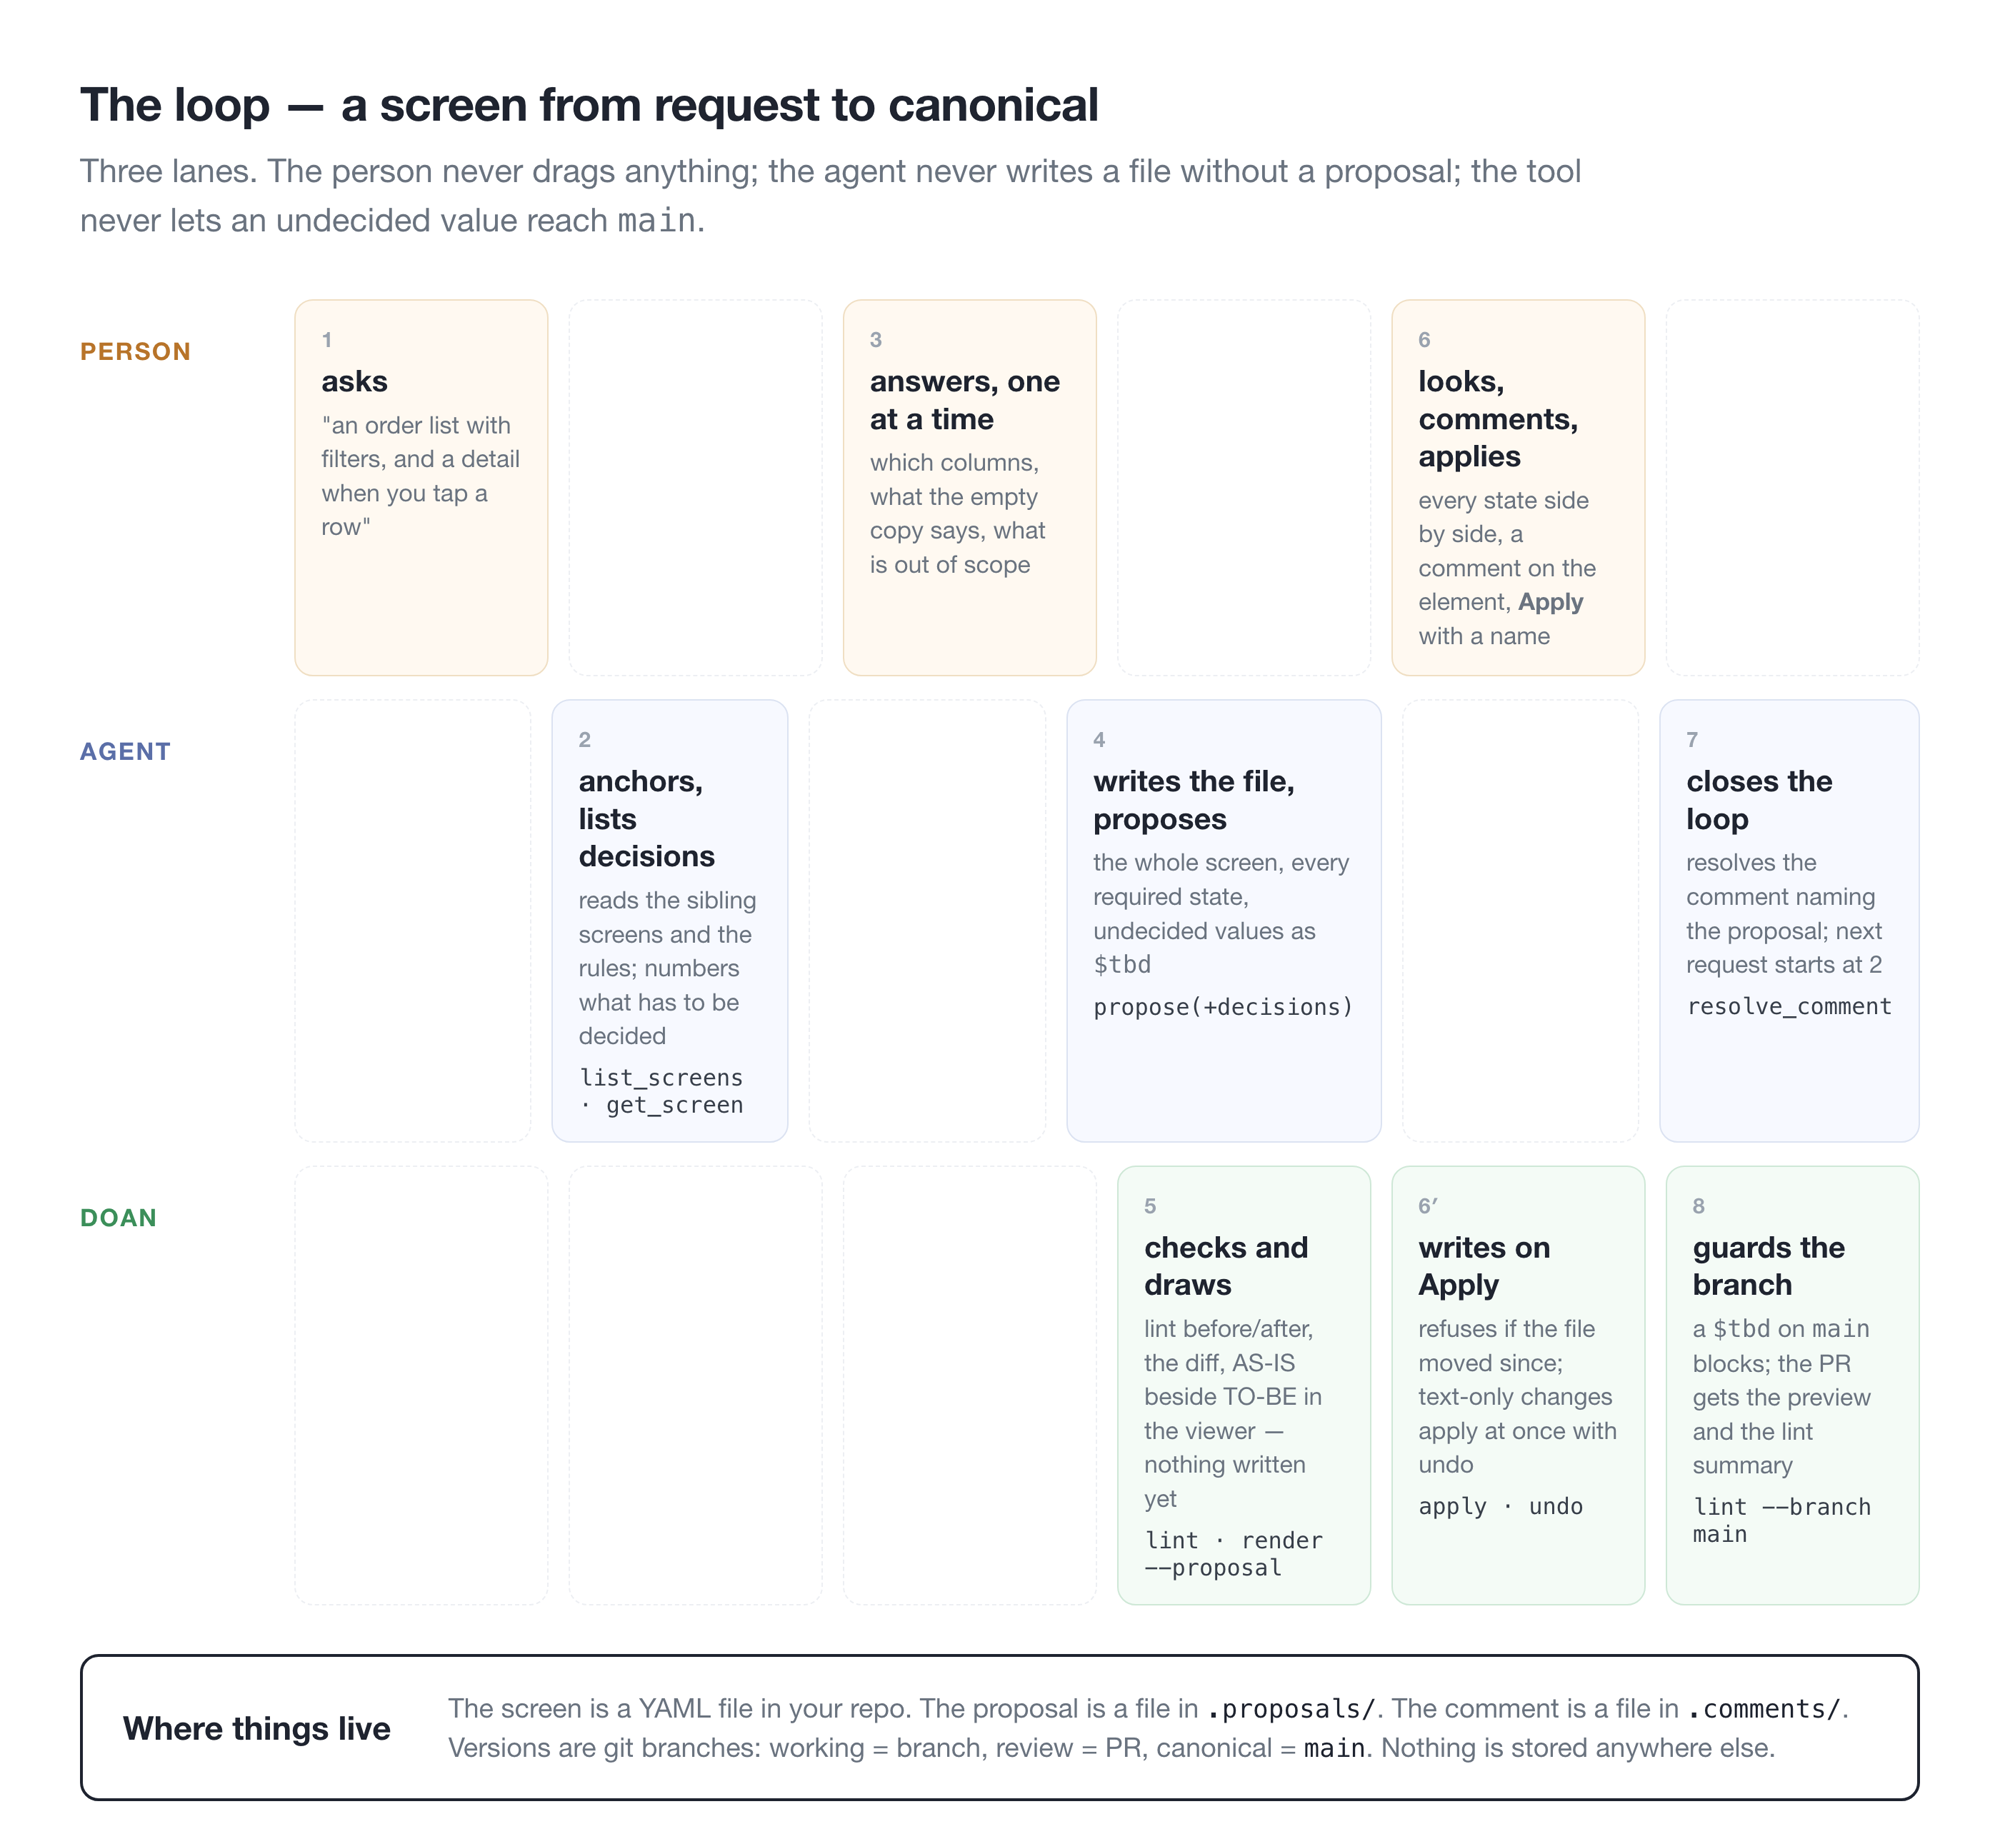
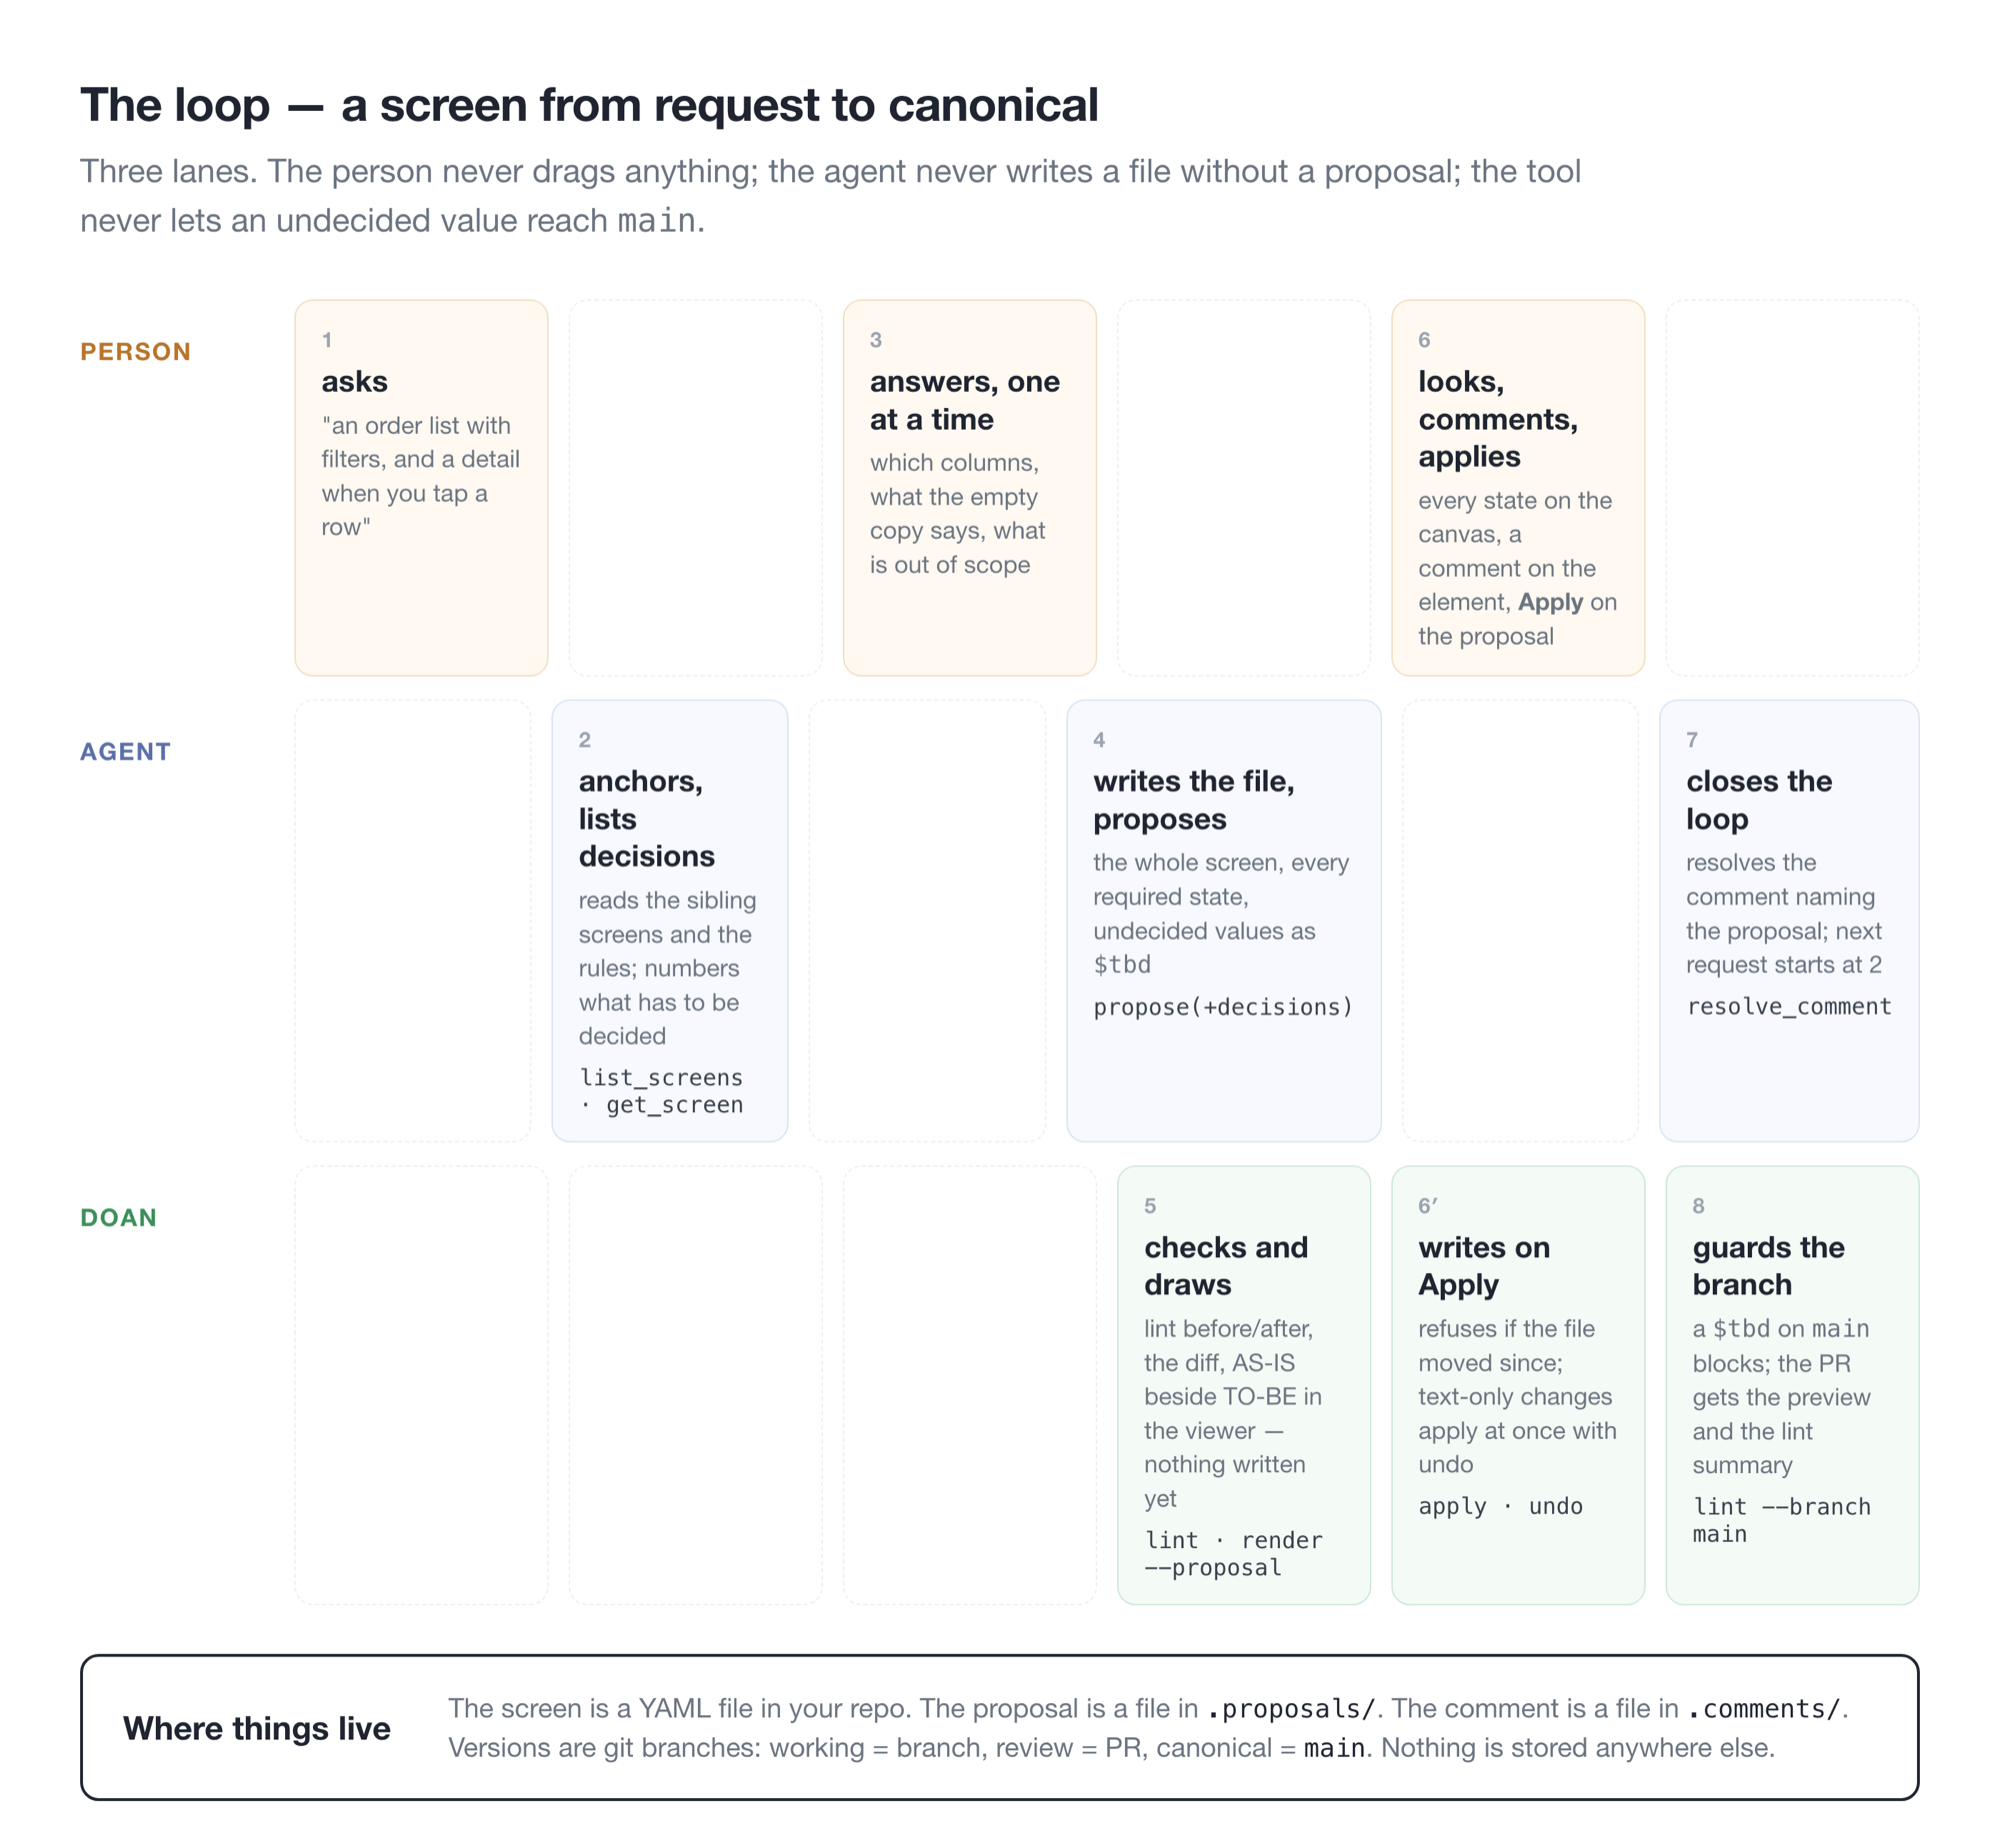
content: doan 플레이 페이지를 0.20.3 기준으로 — 뷰어·파운데이션·컴포넌트·프로토·스펙, 새 캡처 3장, 흐름도 6번 칸
Claude-Session: https://claude.ai/code/session_01NeU6dVXcFeLqMusk4bKy1T

Changed region(s): [[0.713, 0.34, 0.775, 0.3709], [0.775, 0.2473, 0.806, 0.2782], [0.713, 0.2782, 0.744, 0.3091]]

diff --git a/src/content/playground/doan/index.md b/src/content/playground/doan/index.md
@@ -10,17 +10,23 @@ order: 5
 draft: false
 ---
 
-도안(圖案)은 물건을 만드는 바탕이 되는 그림입니다. 제품의 화면 하나하나를 짧은 텍스트 파일로 둡니다. 화면에 무엇이 있는지, 비었을 때·불러올 때·에러일 때 어떻게 보이는지, 버튼을 누르면 어디로 가는지, 어느 기획서에서 나왔는지. 이 파일은 AI 에이전트가 쓰고, 사람은 브라우저에서 요소를 가리키며 "이 열 빼 줘"처럼 말로 고칩니다. 에이전트는 새 판을 제안만 하고, 적용은 사람이 누릅니다. 제품 화면에서 피그마를 대신하는 게 목표입니다. 웹, 앱, 키오스크 모두요.
+도안(圖案)은 물건을 만드는 바탕이 되는 그림입니다. 제품의 화면 하나하나를 짧은 텍스트 파일로 둡니다. 화면에 무엇이 있는지, 비었을 때·불러올 때·에러일 때 어떻게 보이는지, 버튼을 누르면 어디로 가는지, 어느 기획서에서 나왔는지. 이 파일은 AI 에이전트가 쓰고, 사람은 브라우저에서 요소를 가리키며 "이 열 빼 줘"처럼 말로 고칩니다. 에이전트는 새 판을 제안만 하고, 적용은 사람이 누릅니다. 제품 화면에서 피그마를 대신하는 게 목표입니다. 웹과 앱 모두요.
 
-풀려는 문제는 디자인 파일이 여러 사람과 에이전트, 몇 달의 이력을 거치며 깨지는 지점들입니다. 아무도 안 그린 화면, 아무도 안 정한 값, 코드와 어긋난 디자인, 몰래 고치는 에이전트. 그래서 상태는 화면 전체를 반복하지 않고 달라진 부분만 적고, 정하지 않은 값은 담당자가 붙은 `$tbd`로 남깁니다. 검사 열다섯 개가 빠진 상태나 미정 값을 파일과 줄 번호로 짚고, 정리되지 않으면 main에 들어가지 못합니다.
+풀려는 문제는 디자인 파일이 여러 사람과 에이전트, 몇 달의 이력을 거치며 깨지는 지점들입니다. 아무도 안 그린 화면, 아무도 안 정한 값, 코드와 어긋난 디자인, 몰래 고치는 에이전트. 그래서 상태는 화면 전체를 반복하지 않고 달라진 부분만 적고, 정하지 않은 값은 담당자가 붙은 `$tbd`로 남깁니다. 검사 규칙이 빠진 상태나 미정 값을 파일과 줄 번호로 짚고, 정리되지 않으면 main에 들어가지 못합니다.
 
-뷰어에서는 화면을 섹션별로 훑고, 상태를 탭으로 넘기거나 나란히 비교합니다. 요소를 누르면 어느 파일 몇 줄에서 왔는지 보이고, 거기에 코멘트를 남깁니다. 에이전트의 제안은 상태마다 지금 화면 옆에 새 화면을 나란히 그린 페이지로 오고, 이름을 적고 적용하거나 반려합니다.
+뷰어는 피그마처럼 캔버스에 상태별 화면을 섹션으로 늘어놓고, 흐름을 화살표로 잇습니다. 요소를 누르면 레이어 트리와 오른쪽 패널에 컴포넌트·레이아웃·파일 위치가 뜨고, 거기에 코멘트를 남깁니다. 에이전트의 제안은 캔버스 위에서 바뀔 모습과 지금 모습을 넘겨 보며 적용하거나 반려합니다.
 
-이미 피그마에 그린 팀은 `import figma`로 가져옵니다. 컴포넌트 이름을 먼저 짝지어 두면 풀리지 않은 값이 468개에서 80개로 줄고, 남은 것은 첫 검사의 할 일 목록이 됩니다. 화면마다 iOS·Android·태블릿·키오스크·웹을 정하면 그 기기 폭과 프레임으로 그리고, antd·MUI나 팀의 컴포넌트로 그릴 수도 있습니다.
+화면의 바탕도 파일로 둡니다. 색·글자 스타일·면은 DTCG 토큰으로, 컴포넌트는 속성과 토큰을 묶은 계약으로, 부품을 늘어놓는 규칙은 패턴으로 적고, 뷰어가 각각을 한 페이지로 보여 줍니다. 흐름은 클릭 프로토타입으로 눌러 보고, 개발에는 인수 조건·코드 매핑·쓰인 토큰을 한 장에 담은 스펙을 넘깁니다. 뷰어에 남긴 코멘트는 버튼 하나로 에이전트에게 반영을 요청합니다.
+
+이미 피그마에 그린 팀은 `import figma`로 가져옵니다. 컴포넌트 이름을 먼저 짝지어 두면 풀리지 않은 값이 468개에서 80개로 줄고, 남은 것은 첫 검사의 할 일 목록이 됩니다. 화면마다 iOS·Android·태블릿·웹을 정하면 그 기기 폭과 프레임으로 그리고, antd·MUI나 팀의 컴포넌트로 그릴 수도 있습니다.
 
 `npx @junyoung735/doan`으로 설치 없이 쓰고, Claude Code·Cursor·Codex에 MCP로 붙입니다. 검수 규칙은 [fig](/play/fig-pm/)에서 가져왔습니다.
 
-![재고 목록의 여섯 상태를 나란히 비교한 화면과, 요소를 눌러 파일·경로·줄을 보여 주는 드로어](./01.png)
+![캔버스에서 장바구니 목록을 고른 모습: 왼쪽 레이어 트리, 가운데 간격 표시, 오른쪽 Auto layout 패널](./01.png)
+
+![파운데이션 보드의 텍스트 스타일과 색, 컴포넌트 페이지의 부품 계약](./05.png)
+
+![클릭 프로토타입과 개발 스펙의 인수 조건·요소 표](./06.png)
 
 ![사람이 묻고, 에이전트가 제안하고, doan이 검사하고 그려 적용 때만 쓰는 전체 흐름](./02.png)
 

diff --git a/src/content/playground/doan/index.en.md b/src/content/playground/doan/index.en.md
@@ -10,17 +10,23 @@ order: 5
 draft: false
 ---
 
-*Doan* (도안) is Korean for the drawing a thing is made from. Every screen of a product is a short text file: what is on it, how it looks when empty, loading, or broken, where each button goes, and which spec it came from. An AI agent writes those files. You open the screen in a browser, point at something, and say "drop that column." The agent can only propose a new version; a person presses apply. The aim is to replace Figma for product screens — web, app, and kiosk.
+*Doan* (도안) is Korean for the drawing a thing is made from. Every screen of a product is a short text file: what is on it, how it looks when empty, loading, or broken, where each button goes, and which spec it came from. An AI agent writes those files. You open the screen in a browser, point at something, and say "drop that column." The agent can only propose a new version; a person presses apply. The aim is to replace Figma for product screens — web and app.
 
-It targets the places design files break once many people, agents, and months of history pile up: screens nobody drew, values nobody decided, design drifting from code, agents editing quietly. So states record only what differs instead of repeating the screen, and undecided values stay as `$tbd` with an owner attached. Fifteen checks point to missing states and open values by file and line, and nothing unresolved gets into main.
+It targets the places design files break once many people, agents, and months of history pile up: screens nobody drew, values nobody decided, design drifting from code, agents editing quietly. So states record only what differs instead of repeating the screen, and undecided values stay as `$tbd` with an owner attached. Lint rules point to missing states and open values by file and line, and nothing unresolved gets into main.
 
-In the viewer you scan screens by section and flip through states as tabs or compare them side by side. Click an element to see which file and line it came from, and leave a comment right there. An agent's proposal arrives as a page that draws each state as-is next to to-be; you sign your name and apply or reject.
+The viewer lays out every state on a canvas by section, as Figma does, with the flows as arrows. Click an element and the layer tree and the right panel show its component, layout, and file location; leave a comment right there. An agent's proposal is looked at on the canvas, flipping between how it would look and how it looks now, then applied or rejected.
 
-Teams that already drew in Figma bring it in with `import figma`. Mapping component names first cuts unresolved values from 468 to 80, and what remains becomes the first check's to-do list. Set each screen to iOS, Android, tablet, kiosk, or web and it draws at that device's width and frame — with antd, MUI, or the team's own components.
+The ground under the screens is files too: colours, text styles, and surfaces as DTCG tokens; components as contracts that bind props to tokens; the way parts are arranged as patterns — each with its own page in the viewer. Flows can be clicked through as a prototype, and engineering gets one spec with acceptance criteria, code mapping, and the tokens used. Comments left in the viewer go to the agent with one button.
+
+Teams that already drew in Figma bring it in with `import figma`. Mapping component names first cuts unresolved values from 468 to 80, and what remains becomes the first check's to-do list. Set each screen to iOS, Android, tablet, or web and it draws at that device's width and frame — with antd, MUI, or the team's own components.
 
 It runs with `npx @junyoung735/doan`, no install, and plugs into Claude Code, Cursor, or Codex over MCP. The lint rules come from [fig](/en/play/fig-pm/).
 
-![Six states of the inventory list compared side by side, next to the drawer showing an element's file, path, and line](./01.png)
+![The canvas with the cart list selected: the layer tree on the left, spacing marked in the middle, the Auto layout panel on the right](./01.png)
+
+![The foundations board with text styles and colours, and the components page with part contracts](./05.png)
+
+![The clickable prototype, and the developer spec with acceptance criteria and the element table](./06.png)
 
 ![The whole loop: a person asks, the agent proposes, doan checks, draws, and writes only on apply](./02.png)
 
